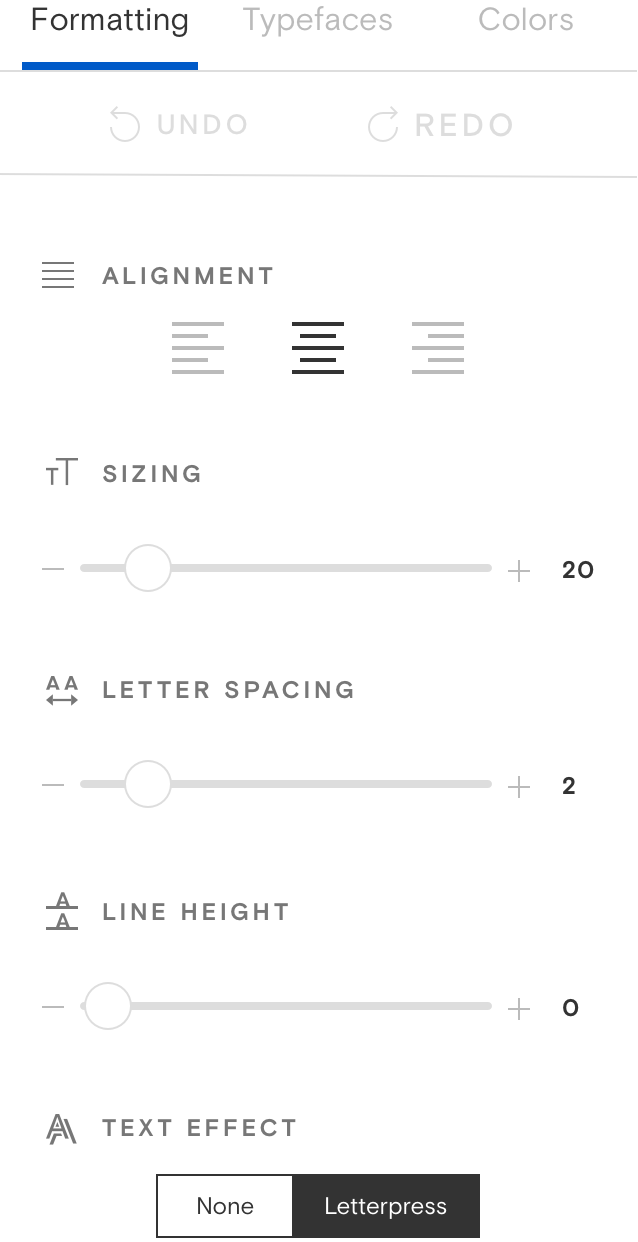
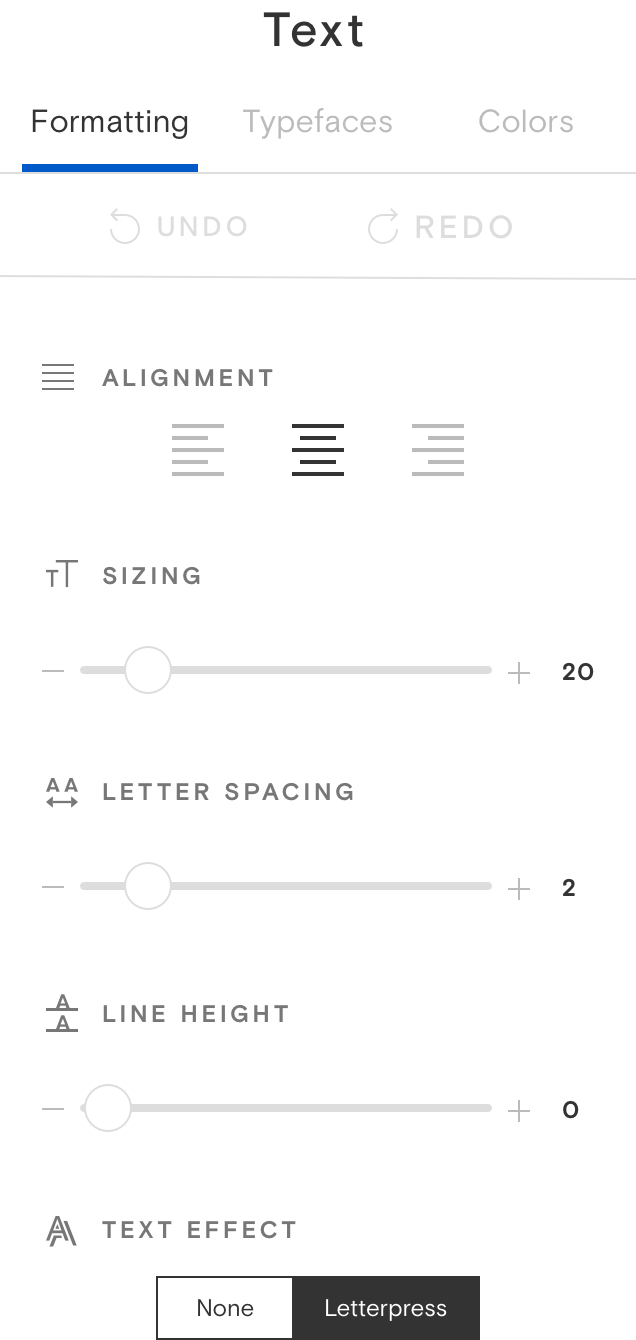
added another drawer animation branch

diff --git a/source/stylesheets/site.css.scss b/source/stylesheets/site.css.scss
@@ -13,7 +13,7 @@ ul {
 @import "buttons";
 
 
-//Colors
+////////////// Colors
 
 $lapel: #333333;
 $gatsby: #005AC8;
@@ -27,7 +27,7 @@ $wolf: #dddddd;
 $dusty-gray: #999999;
 $charcoal: #777777;
 
-// End Colors
+/////////////// End Colors
 
 // Styling Material Icons
 .material-icons {
@@ -80,7 +80,7 @@ header {
   height: 3rem;
   box-shadow: 0 1px 2px rgba(0,0,0,0.2);
   position: relative;
-  z-index: 1;
+  z-index: 4;
 }
 .flow__step {
   text-transform: uppercase;
@@ -99,59 +99,52 @@ header {
 }
 .toolbar-content {
   position: absolute;
-  height: -webkit-calc(100% - 1rem);
-
 }
 
 //Side 1
 .side-1 {
   margin-top: 4rem;
+
   //transition: all 0.2s ease-in-out;
-  left: 0;
 }
-.side-1.obscured {
-  left: -2.5rem;
-  transition: all 0.3s ease-in-out;
+.fade-left {
+  animation-name: customFadeOutLeft;
+  animation-duration: 600ms;
+  animation-fill-mode: both;
+  animation-direction: alternate;
 }
-.side-1::after {
-  content: '';
-  background-color: rgba(95,95,95,0.0);
-  transition: all 0.3s ease-in-out;
+.fade-in-right {
+  animation-name: customFadeInRight;
+  animation-duration: 600ms;
+  animation-fill-mode: both;
 }
-.side-1.obscured::after {
-  content: '';
-  position: absolute;
-  height: 100vh;
-  width: 100%;
-  background-color: rgba(95,95,95,0.8);
-  top: -4rem;
-  transition: all 0.3s ease-in-out;
-}
-//Text Toolset
-.toolset--text {
-  width: 19rem;
-  top: 0;
-  left: 8rem;
-  background-color: $white;
-  box-shadow: 1px 0 4px rgba(0,0,0,0.15);
-  opacity: 0;
-  z-index: -1;
-  padding-top: 1.5rem;
-  transition: all 0.3s ease-in-out;
-}
-.toolset--text.open {
-  left: 1.5rem;
-  opacity: 1;
-  z-index: 1;
-  transition: all 0.4s ease-in-out;
+@keyframes customFadeOutLeft {
+  from {
+    opacity: 1;
+  }
+
+  to {
+    opacity: 0;
+    transform: translate3d(-50%, 0, 0);
+  }
 }
 
-#text-toolset-close {
-  transition: color 0.1s ease-in;
-  &:hover {
-    cursor: pointer;
-    color: $wolf;
+@keyframes customFadeOutRight {
+  from {
+    opacity: 1;
   }
+
+  to {
+    opacity: 0;
+    transform: translate3d(50%, 0, 0);
+  }
+}
+
+//Text Toolset
+.toolset--text {
+  opacity: 0;
+  padding-top: 1rem;
+  overflow: hidden;
 }
 
 .toolset__title {
@@ -164,8 +157,56 @@ header {
 }
 .placeholder-text-toolset {
   width: 100%;
-  margin-top: 1.5rem;
+  margin-top: 1rem;
 }
+
+.open {
+  left: 0rem;
+  opacity: 1;
+  animation-name: customFadeInLeft;
+  animation-duration: 600ms;
+  animation-fill-mode: both;
+}
+.fade-out-right {
+  animation-name: customFadeOutRight;
+  animation-duration: 600ms;
+  animation-fill-mode: both;
+}
+
+@-webkit-keyframes customFadeInLeft {
+  from {
+    opacity: 0;
+    transform: translate3d(50%, 0, 0);
+  }
+
+  to {
+    opacity: 1;
+    -webkit-transform: none;
+    transform: none;
+  }
+}
+
+@-webkit-keyframes customFadeInRight {
+  from {
+    opacity: 0;
+    transform: translate3d(-50%, 0, 0);
+  }
+
+  to {
+    opacity: 1;
+    -webkit-transform: none;
+    transform: none;
+  }
+}
+
+#text-toolset-close {
+  transition: color 0.1s ease-in;
+  &:hover {
+    cursor: pointer;
+    color: $wolf;
+  }
+}
+
 
 //Primary Actions
 .primary-tool-list__item {
@@ -244,7 +285,7 @@ header {
 //Viewport
 .viewport {
   position: absolute;
-  z-index: -2;
+  z-index: 1;
   left: 19rem;
   background-color: $gallery;
   width: -webkit-calc(100% - 19rem);

diff --git a/source/javascripts/all.js b/source/javascripts/all.js
@@ -6,15 +6,15 @@ $(document).ready(function(){
 
   $('#text-tool-open').on('click', function(e) {
     console.log("text-tool-open");
-    $('.toolset--text').addClass('open');
-    $('.side-1').addClass('obscured');
+    $('.toolset--text').removeClass('fade-out-right').addClass('open');
+    $('.side-1').removeClass('fade-in-right').addClass('fade-left');
     e.preventDefault();
   });
 
   $('#text-toolset-close').on('click', function(e) {
     console.log("text-tool-close");
-    $('.toolset--text').removeClass('open');
-    $('.side-1').removeClass('obscured');
+    $('.toolset--text').removeClass('open').addClass('fade-out-right');
+    $('.side-1').removeClass('fade-left').addClass('fade-in-right');
     e.preventDefault();
   });
 
